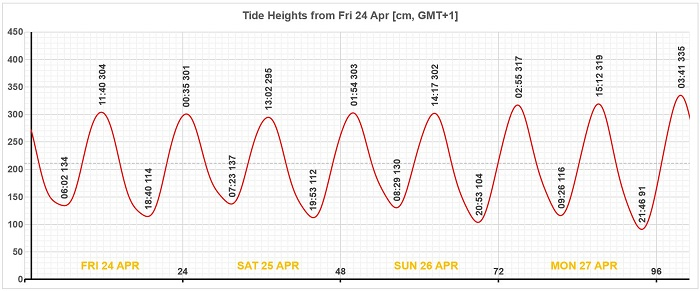
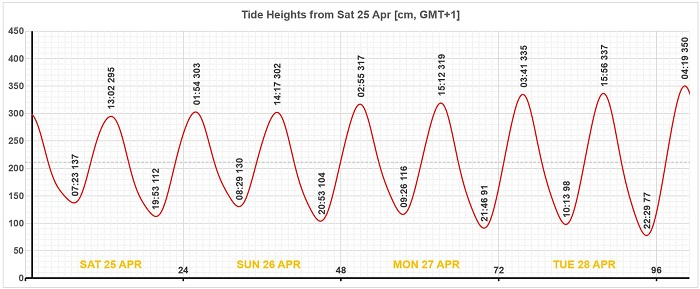
Add files via upload

diff --git a/index.html b/index.html
@@ -160,10 +160,6 @@ dark skies, stellar magnitude, moon, Luna, Mercury, Venus, Mars, Jupiter, Saturn
 							<td id="recent_posts_list" valign="top">
 									<li><b>Predicted Tides at Baltimore Pier<br />(GMT+1) (</b><a href="tides.html">explainer, daily & full-year charts & data</a>)<br /><hr /></li>
 
-Fri 24 Apr 2026  Low: 06:02  1.34m<br />
-Fri 24 Apr 2026  High: 11:40  3.04m<br />
-Fri 24 Apr 2026  Low: 18:40  1.14m<br />
-Fri 24 Apr 2026  High: 00:35  3.01m<br />
 Sat 25 Apr 2026  Low: 07:23  1.37m<br />
 Sat 25 Apr 2026  High: 13:02  2.95m<br />
 Sat 25 Apr 2026  Low: 19:53  1.12m<br />
@@ -179,6 +175,10 @@ Tue 28 Apr 2026  High: 03:41  3.35m<br />
 Tue 28 Apr 2026  Low: 10:13  0.98m<br />
 Tue 28 Apr 2026  High: 15:56  3.37m<br />
 Tue 28 Apr 2026  Low: 22:29  0.77m<br />
+Wed 29 Apr 2026  High: 04:19  3.50m<br />
+Wed 29 Apr 2026  Low: 10:52  0.79m<br />
+Wed 29 Apr 2026  High: 16:35  3.50m<br />
+Wed 29 Apr 2026  Low: 23:05  0.67m<br />
 
 (** = Full Moon  * = New Moon)
 									<br /><br />